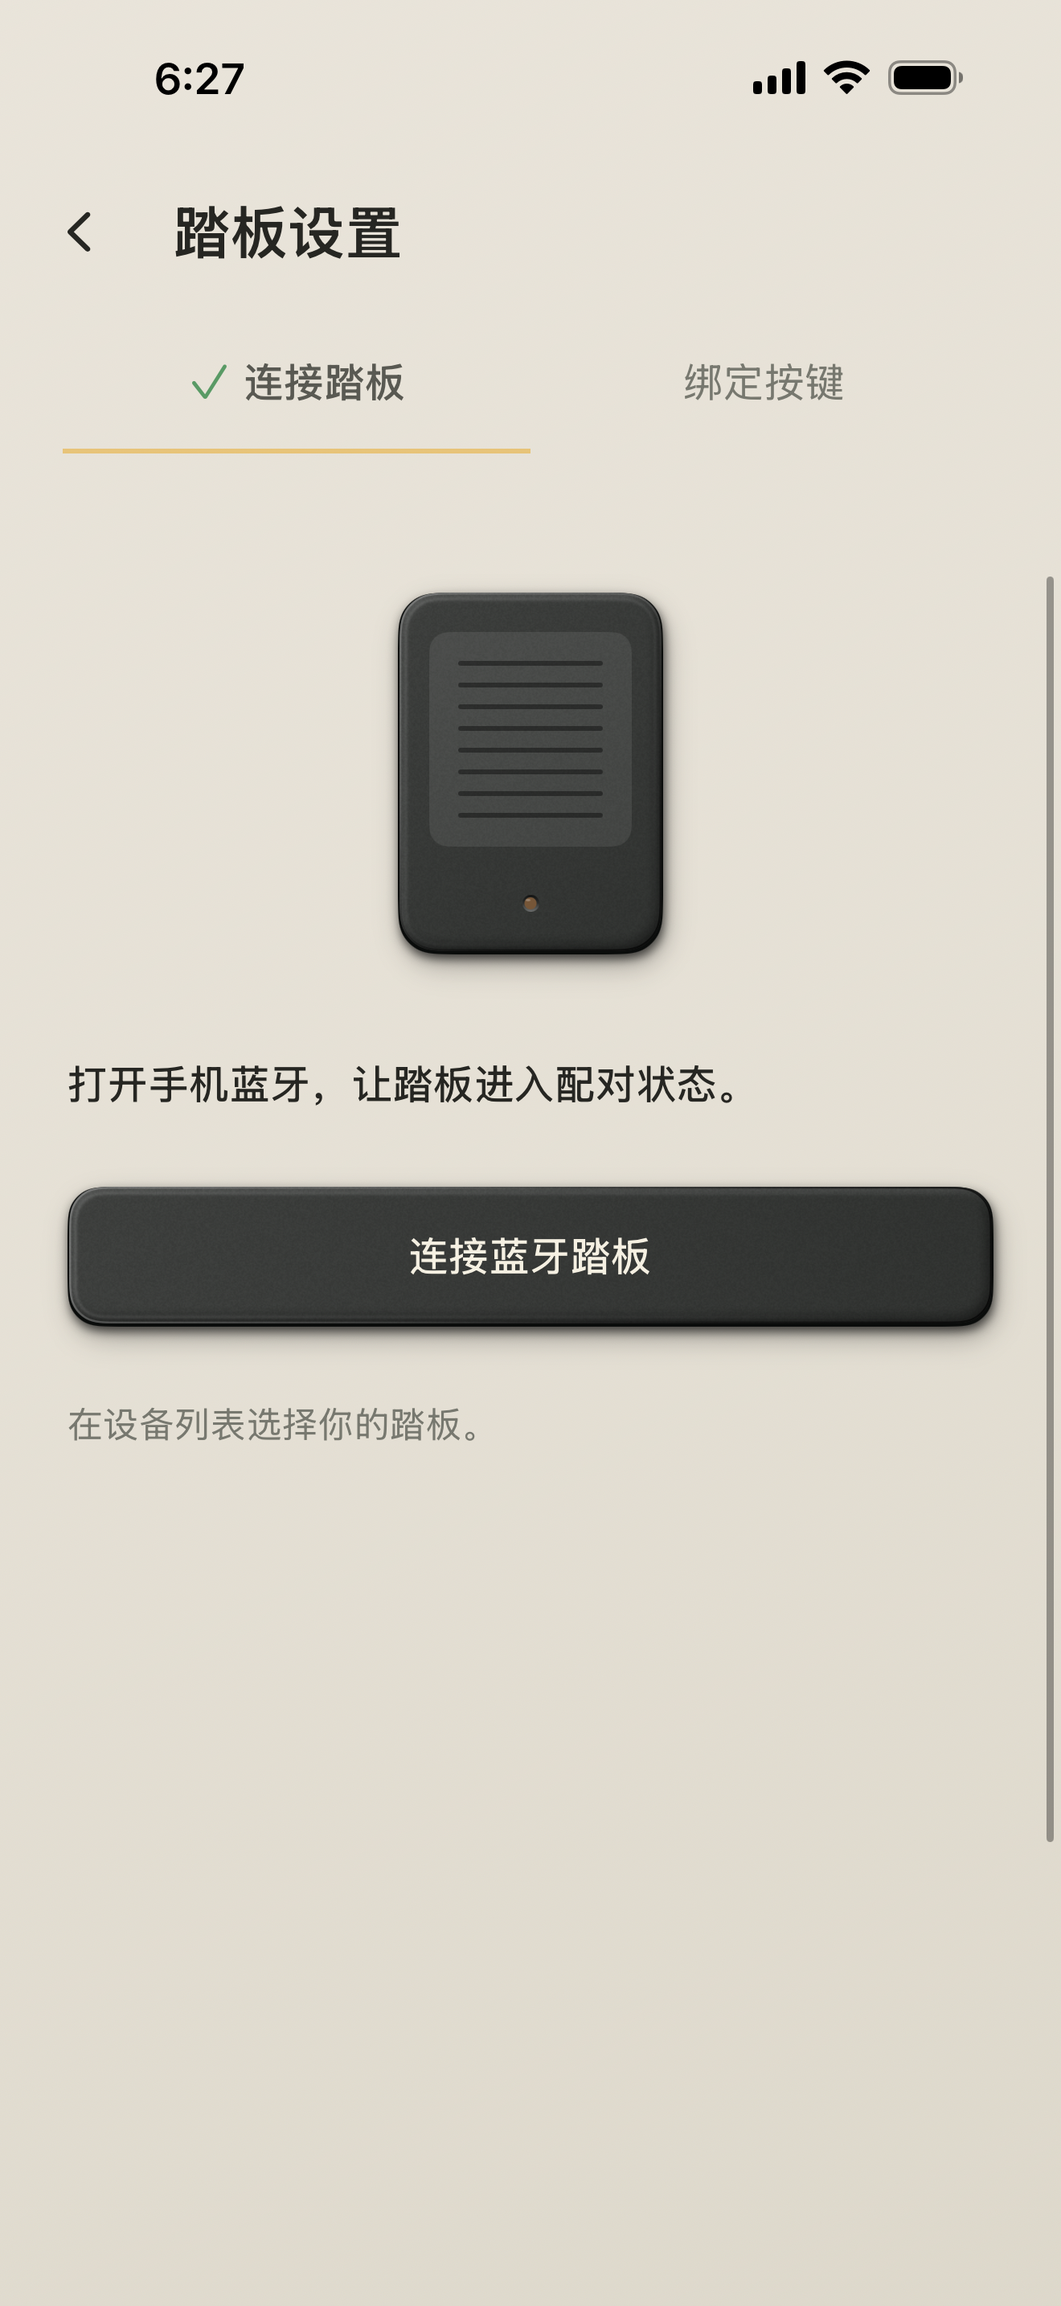
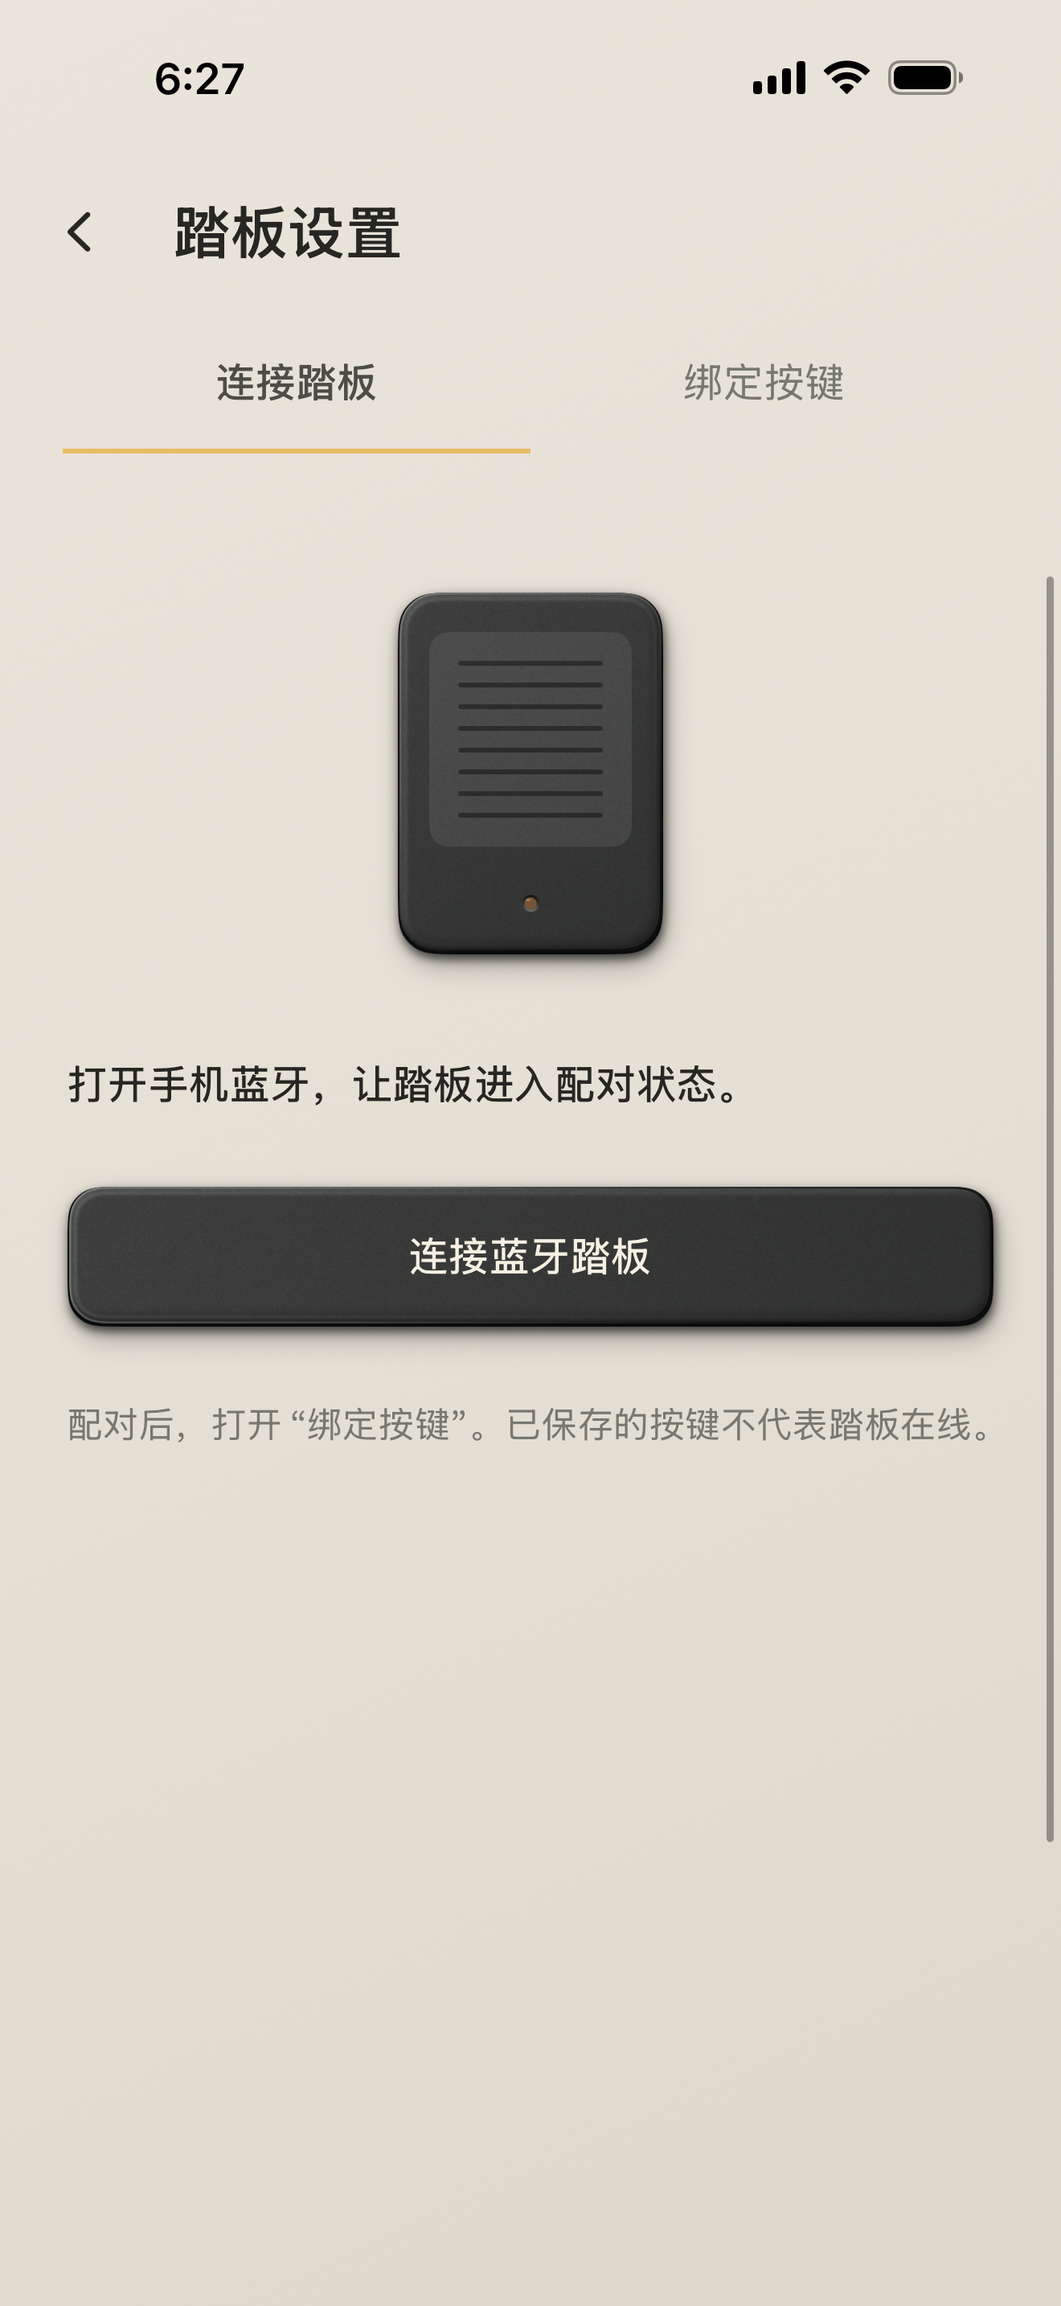
Remove false pedal connection claims and test input lifecycle edges

Changed region(s): [[0.497, 0.5896, 0.8697, 0.6206], [0.0621, 0.5896, 0.4348, 0.6206], [0.1864, 0.1552, 0.3727, 0.1862]]

diff --git a/TheMetronome/PedalControl.swift b/TheMetronome/PedalControl.swift
@@ -88,10 +88,8 @@ struct PedalMIDIParser {
 final class PedalControl: ObservableObject {
     @Published private(set) var bindings: [PedalAction: PedalBinding] = [:]
     @Published private(set) var learning: PedalAction?
-    @Published private(set) var midiSources = 0
-    @Published private(set) var keyboardConnected = false
-    @Published private(set) var physicalMIDISources = 0
-    var inputConnected: Bool { keyboardConnected || physicalMIDISources > 0 }
+    // GCKeyboard merges physical and virtual keyboards. MIDI endpoints can be
+    // virtual or wired. Neither is evidence that a Bluetooth pedal is connected.
     @Published var problem: String?
     var perform: ((PedalAction) -> Void)?
     private var gate = PedalGate()
@@ -100,6 +98,8 @@ final class PedalControl: ObservableObject {
     private var port = MIDIPortRef()
     private var sources = Set<MIDIEndpointRef>()
     private var parsers: [Int32: PedalMIDIParser] = [:]
+    private weak var attachedKeyboard: GCKeyboard?
+    private var activeMIDISourceIDs = Set<Int32>()
     private var editing = false
     private let defaults: UserDefaults
 
@@ -117,11 +117,15 @@ final class PedalControl: ObservableObject {
         gate.bindings = bindings
         for name in [NSNotification.Name.GCKeyboardDidConnect, .GCKeyboardDidDisconnect, UIApplication.didBecomeActiveNotification] {
             observers.append(NotificationCenter.default.addObserver(forName: name, object: nil, queue: .main) { [weak self] _ in
-                Task { @MainActor in self?.gate.clearHeld(); self?.attachKeyboard() }
+                Task { @MainActor in
+                    self?.resetInputSession()
+                    self?.attachKeyboard()
+                    self?.refreshSources()
+                }
             })
         }
-        observers.append(NotificationCenter.default.addObserver(forName: UIApplication.didEnterBackgroundNotification, object: nil, queue: .main) { [weak self] _ in
-            Task { @MainActor in self?.cancelLearning(); self?.gate.clearHeld() }
+        observers.append(NotificationCenter.default.addObserver(forName: UIApplication.willResignActiveNotification, object: nil, queue: .main) { [weak self] _ in
+            Task { @MainActor in self?.resetInputSession() }
         })
         for name in [UITextField.textDidBeginEditingNotification, UITextView.textDidBeginEditingNotification] {
             observers.append(NotificationCenter.default.addObserver(forName: name, object: nil, queue: .main) { [weak self] _ in Task { @MainActor in self?.editing = true } })
@@ -144,6 +148,12 @@ final class PedalControl: ObservableObject {
         for observer in observers { NotificationCenter.default.removeObserver(observer) }
         if port != 0 { MIDIPortDispose(port) }
         if client != 0 { MIDIClientDispose(client) }
+    }
+    /// Invalidate transient input on device/lifecycle changes, preserving saved mappings.
+    func resetInputSession() {
+        cancelLearning()
+        gate.clearHeld()
+        parsers.removeAll()
     }
     func learn(_ action: PedalAction) { gate.clearHeld(); gate.learning = action; learning = action }
     func cancelLearning() { gate.learning = nil; learning = nil }
@@ -170,8 +180,9 @@ final class PedalControl: ObservableObject {
         return assigned
     }
     private func attachKeyboard() {
-        keyboardConnected = GCKeyboard.coalesced != nil
-        GCKeyboard.coalesced?.keyboardInput?.keyChangedHandler = { [weak self] _, _, key, down in
+        attachedKeyboard?.keyboardInput?.keyChangedHandler = nil
+        attachedKeyboard = GCKeyboard.coalesced
+        attachedKeyboard?.keyboardInput?.keyChangedHandler = { [weak self] _, _, key, down in
             Task { @MainActor in
                 guard let self, UIApplication.shared.applicationState == .active, !self.editing else { return }
                 let code = key.rawValue
@@ -205,29 +216,39 @@ final class PedalControl: ObservableObject {
         if result != noErr { MIDIClientDispose(client); client = 0; problem = L10n.text("Could not connect MIDI. Try again."); return }
         refreshSources()
     }
-    private func receiveMIDI(_ bytes: [UInt8], source: Int32) {
+    func receiveMIDI(_ bytes: [UInt8], source: Int32) {
+        guard activeMIDISourceIDs.contains(source) else { return }
         var parser = parsers[source] ?? PedalMIDIParser()
         let events = parser.feed(bytes, source: source); parsers[source] = parser
         for (input, down) in events { receive(input, down: down) }
     }
+    func updateMIDISources(_ identifiers: Set<Int32>) {
+        guard identifiers != activeMIDISourceIDs else { return }
+        resetInputSession()
+        activeMIDISourceIDs = identifiers
+    }
     private func refreshSources() {
         guard port != 0 else { return }
-        let current = Set((0..<MIDIGetNumberOfSources()).map { MIDIGetSource($0) }.filter { $0 != 0 })
+        let current = Set((0..<MIDIGetNumberOfSources()).map { MIDIGetSource($0) }.filter { endpoint in
+            guard endpoint != 0 else { return false }
+            var offline: Int32 = 1
+            // Do not treat an unreadable property as a successful connection.
+            return MIDIObjectGetIntegerProperty(endpoint, kMIDIPropertyOffline, &offline) == noErr && offline == 0
+        })
         for source in sources.subtracting(current) { MIDIPortDisconnectSource(port, source) }
         var connected = sources.intersection(current)
         for source in current.subtracting(sources) {
             if MIDIPortConnectSource(port, source, UnsafeMutableRawPointer(bitPattern: UInt(source))) == noErr { connected.insert(source) }
             else { problem = L10n.text("Could not connect MIDI. Try again.") }
         }
-        if sources != connected { gate.clearHeld(); parsers.removeAll() }
-        sources = connected; midiSources = connected.count
-        physicalMIDISources = connected.filter { endpoint in
-            var entity = MIDIEntityRef(); var device = MIDIDeviceRef(); var offline: Int32 = 0
-            guard MIDIEndpointGetEntity(endpoint, &entity) == noErr, entity != 0,
-                  MIDIEntityGetDevice(entity, &device) == noErr, device != 0 else { return false }
-            MIDIObjectGetIntegerProperty(device, kMIDIPropertyOffline, &offline)
-            return offline == 0
-        }.count
+        if sources != connected { resetInputSession() }
+        sources = connected
+        updateMIDISources(Set(connected.compactMap { endpoint in
+            var identifier: Int32 = 0
+            guard MIDIObjectGetIntegerProperty(endpoint, kMIDIPropertyUniqueID, &identifier) == noErr,
+                  identifier != 0 else { return nil }
+            return identifier
+        }))
     }
 }
 

diff --git a/TheMetronomeTests/LiveModeTests.swift b/TheMetronomeTests/LiveModeTests.swift
@@ -3,6 +3,77 @@ import AVFoundation
 @testable import TheMetronome
 
 final class LiveModeTests: XCTestCase {
+    @MainActor func testDisconnectDuringRebindPreservesSavedKeyAndClearsHeldPress() {
+        let defaults = UserDefaults(suiteName: "PedalDisconnectTests")!
+        defaults.removePersistentDomain(forName: "PedalDisconnectTests")
+        defer { defaults.removePersistentDomain(forName: "PedalDisconnectTests") }
+        let pedal = PedalControl(defaults: defaults)
+        let key = PedalBinding(kind: .keyboard, code: 40, label: "RETURN")
+        pedal.learn(.toggle)
+        XCTAssertTrue(pedal.receive(key, down: true, at: 0))
+        pedal.learn(.toggle)
+        pedal.resetInputSession()
+        XCTAssertNil(pedal.learning)
+        XCTAssertEqual(pedal.bindings[.toggle], key)
+        var actions: [PedalAction] = []
+        pedal.perform = { actions.append($0) }
+        // Reconnect without an old key-up must not leave the pedal stuck.
+        XCTAssertTrue(pedal.receive(key, down: true, at: 1))
+        XCTAssertEqual(actions, [.toggle])
+        pedal.resetInputSession()
+        XCTAssertEqual(pedal.bindings[.toggle], key)
+    }
+    @MainActor func testMIDIDisconnectRejectsQueuedEventsAndReconnectNeedsFreshMessage() {
+        let defaults = UserDefaults(suiteName: "PedalMIDILifecycleTests")!
+        defaults.removePersistentDomain(forName: "PedalMIDILifecycleTests")
+        defer { defaults.removePersistentDomain(forName: "PedalMIDILifecycleTests") }
+        let pedal = PedalControl(defaults: defaults)
+        pedal.updateMIDISources([12])
+        pedal.learn(.toggle)
+        pedal.receiveMIDI([0x90, 60, 100], source: 12)
+        XCTAssertEqual(pedal.bindings[.toggle]?.source, 12)
+        var actions: [PedalAction] = []
+        pedal.perform = { actions.append($0) }
+        pedal.learn(.toggle)
+        pedal.updateMIDISources([])
+        XCTAssertNil(pedal.learning)
+        pedal.receiveMIDI([0x90, 60, 100], source: 12)
+        XCTAssertTrue(actions.isEmpty) // queued input after disconnection
+        XCTAssertNotNil(pedal.bindings[.toggle])
+        pedal.updateMIDISources([12])
+        pedal.receiveMIDI([0x90, 60], source: 12) // partial packet
+        pedal.updateMIDISources([])
+        pedal.updateMIDISources([12])
+        pedal.receiveMIDI([100], source: 12)
+        XCTAssertTrue(actions.isEmpty) // no running status carried across sessions
+        pedal.receiveMIDI([0x90, 60, 100], source: 99)
+        XCTAssertTrue(actions.isEmpty) // unknown source
+        pedal.receiveMIDI([0x90, 60, 100], source: 12)
+        XCTAssertEqual(actions, [.toggle])
+    }
+    @MainActor func testSameMIDITopologyDoesNotCancelLearningButSourceReplacementDoes() {
+        let defaults = UserDefaults(suiteName: "PedalTopologyTests")!
+        defer { defaults.removePersistentDomain(forName: "PedalTopologyTests") }
+        let pedal = PedalControl(defaults: defaults)
+        pedal.updateMIDISources([12]); pedal.learn(.tap)
+        pedal.updateMIDISources([12]); XCTAssertEqual(pedal.learning, .tap)
+        pedal.updateMIDISources([13]); XCTAssertNil(pedal.learning)
+        XCTAssertTrue(pedal.bindings.isEmpty)
+    }
+    @MainActor func testLeavingForegroundCancelsLearningWithoutDeletingAssignment() async throws {
+        let defaults = UserDefaults(suiteName: "PedalForegroundTests")!
+        defaults.removePersistentDomain(forName: "PedalForegroundTests")
+        defer { defaults.removePersistentDomain(forName: "PedalForegroundTests") }
+        let pedal = PedalControl(defaults: defaults)
+        let key = PedalBinding(kind: .keyboard, code: 44, label: "SPACE")
+        pedal.learn(.toggle); pedal.receive(key, down: true, at: 0)
+        pedal.learn(.next)
+        NotificationCenter.default.post(name: UIApplication.willResignActiveNotification, object: nil)
+        try await Task.sleep(for: .milliseconds(50))
+        XCTAssertNil(pedal.learning)
+        XCTAssertEqual(pedal.bindings[.toggle], key)
+        XCTAssertNil(pedal.bindings[.next])
+    }
     func testLearnConsumesPressRebindAndHeldKeyDoesNotRepeat() {
         var gate = PedalGate()
         let key = PedalBinding(kind: .keyboard, code: 40, label: "RETURN")

diff --git a/TheMetronome/PedalSettingsView.swift b/TheMetronome/PedalSettingsView.swift
@@ -11,7 +11,6 @@ struct PedalSettingsView: View {
     @Environment(\.accessibilityReduceMotion) private var reduceMotion
     @ScaledMetric(relativeTo: .body) private var keyWidth: CGFloat = 138
     private let groups: [[PedalAction]] = [[.toggle, .tap], [.previous, .next], [.slower, .faster]]
-    private let green = Color(red: 0.28, green: 0.57, blue: 0.34)
     var body: some View {
         VStack(spacing: 0) {
             HStack(spacing: 16) {
@@ -57,10 +56,7 @@ struct PedalSettingsView: View {
             }
         }.foregroundStyle(p.ink).background { InstrumentBody(p: p).ignoresSafeArea() }
             .preferredColorScheme(model.dark ? .dark : .light).accessibilityAddTraits(.isModal)
-            .onAppear { bindingTab = !pedal.bindings.isEmpty || pedal.inputConnected }
-            .onChange(of: pedal.inputConnected) { _, connected in
-                if connected { midiPicker = false; bindingTab = true }
-            }
+            .onAppear { bindingTab = !pedal.bindings.isEmpty }
             .onDisappear { pedal.cancelLearning() }
             .sheet(isPresented: $midiPicker) {
                 NavigationStack {
@@ -77,7 +73,6 @@ struct PedalSettingsView: View {
         Button(action: action) {
             VStack(spacing: 12) {
                 HStack(spacing: 5) {
-                    if id == "pedal-tab-connect" && pedal.inputConnected { Image(systemName: "checkmark").foregroundStyle(green) }
                     Text(title).font(.body.weight(selected ? .semibold : .regular)).foregroundStyle(selected ? p.ink : p.muted)
                 }.frame(minHeight: 32)
                 Rectangle().fill(selected ? InstrumentPalette.amber : .clear).frame(height: 2)
@@ -92,7 +87,7 @@ struct PedalSettingsView: View {
             Button { pedal.problem = nil; pedal.enableMIDI(); midiPicker = true } label: {
                 Text("Connect Bluetooth pedal").font(.body.weight(.medium)).frame(maxWidth: .infinity, minHeight: 58)
             }.buttonStyle(HardwareButtonStyle(p: p, charcoal: true, radius: 14)).accessibilityIdentifier("pedal-midi")
-            Text("Choose your pedal from the device list.").font(.subheadline).foregroundStyle(p.muted).frame(maxWidth: .infinity, alignment: .leading)
+            Text("After pairing, open Assign controls. Saved keys do not indicate a live connection.").font(.subheadline).foregroundStyle(p.muted).frame(maxWidth: .infinity, alignment: .leading)
         }
     }
     private var bindingList: some View {

diff --git a/TheMetronomeUITests/LiveModeUITests.swift b/TheMetronomeUITests/LiveModeUITests.swift
@@ -1,6 +1,29 @@
 import XCTest
 
 final class LiveModeUITests: XCTestCase {
+    func testUnpairedSetupDoesNotAutoAdvanceAndBackgroundCancelsLearning() {
+        continueAfterFailure = false
+        let app = XCUIApplication()
+        app.launchArguments = ["-AppleLanguages", "(en)", "--light", "--panel=pedal", "--pedal-ui-test"]
+        app.launch()
+        // The simulator exposes a GCKeyboard even without a Bluetooth pedal.
+        // This used to incorrectly mark the tab connected and navigate away.
+        XCTAssertTrue(app.buttons["pedal-midi"].waitForExistence(timeout: 8))
+        XCTAssertFalse(app.buttons["pedal-toggle"].exists)
+        XCTAssertFalse(app.images["checkmark"].exists)
+        capture(app, "Unpaired setup")
+        XCUIDevice.shared.press(.home); app.activate()
+        XCTAssertTrue(app.buttons["pedal-midi"].waitForExistence(timeout: 5))
+        app.buttons["pedal-tab-bind"].tap()
+        app.buttons["pedal-toggle"].tap()
+        XCTAssertEqual(app.buttons["pedal-toggle"].value as? String, "Learning")
+        XCUIDevice.shared.press(.home); app.activate()
+        XCTAssertTrue(app.buttons["pedal-toggle"].waitForExistence(timeout: 5))
+        XCTAssertEqual(app.buttons["pedal-toggle"].value as? String, "Learn")
+        app.buttons["pedal-tab-connect"].tap()
+        XCTAssertTrue(app.buttons["pedal-midi"].exists)
+        XCTAssertFalse(app.images["checkmark"].exists)
+    }
     func testSixActionsLearningCancellationAndPlaybackRemainAccessible() {
         continueAfterFailure = false
         let app = XCUIApplication()
@@ -66,6 +89,8 @@ final class LiveModeUITests: XCTestCase {
             capture(app, "Preparation — \(language)")
             app.swipeDown(); app.buttons["pedal-preparation"].tap()
             app.buttons["pedal-tab-connect"].tap()
+            XCTAssertFalse(app.images["checkmark"].exists)
+            XCTAssertTrue(app.buttons["pedal-midi"].exists)
             capture(app, "Connection — \(language)")
             app.terminate()
         }

diff --git a/Design/LiveMode/README.md b/Design/LiveMode/README.md
@@ -59,3 +59,13 @@ Two tabs: connect and assign. Assignment keys directly reuse HardwareKeySurface:
 Connection status comes from an attached keyboard or online physical MIDI source, not merely a saved binding. Virtual MIDI endpoints do not mark the connection complete. A detected connection advances to assignment. The native picker handles Bluetooth MIDI; keyboard/page-turning pedals pair through iPhone Settings > Bluetooth. Background compatibility limitations above still apply.
 
 Verification: 7 LiveMode logic tests and 2 UI journey tests passed on iPhone 17 Pro Max simulator, iOS 26.3. Tests cover repeated learning/cancel, preserved reassignment, tabs, preparation collapse, stopped navigation and playback continuing after settings. Chinese, English and German screenshots were inspected. Native localization validation passes for 204 strings across nine languages. Final signed Debug 1.0.2 (3) installed successfully on the connected iPhone 14 Pro at 21:19. No new physical pedal, lock-screen or call tests were run. Real app screenshots in implemented/ use an isolated DEBUG assignment fixture; they are not proof of physical pedal compatibility.
+
+### Connection false positive correction · 1.0.2 (4)
+
+The previous connection check was wrong: GCKeyboard.coalesced is a combined keyboard input object, not Bluetooth pedal identification. A physical/virtual keyboard can satisfy it, and an arbitrary online MIDI endpoint does not establish pedal identity or Bluetooth transport either. The connection tab no longer displays a connection check or auto-advances from these signals. Saved bindings open the assignment page for convenience but never mark a device connected. Green key LEDs mean saved assignments only. Actual HID pedal connection status remains unknown; this release does not claim to detect it.
+
+Transient learning, held keys and MIDI parser state reset on keyboard topology changes and foreground transitions. Saved mappings survive. Offline or unreadable MIDI endpoints are excluded from routing. Messages from sources no longer in the active set are ignored. Changing MIDI source IDs cancels learning; an unchanged topology does not.
+
+Verification: 11 logic tests + 3 UI tests passed on iPhone 17 Pro Max simulator (iOS 26.3). New cases: no saved mapping with a system keyboard available must remain on connection instructions; saved keys do not mark connection; foreground round-trip cancels learning; disconnection during reassignment preserves the old key; reconnect without key-up clears held state; disconnected/unknown MIDI sources cannot trigger actions; partial MIDI packets cannot span sessions; unchanged topology preserves learning while source replacement cancels it. Existing repeated-choice, playback, localization and interruption-model tests also passed. Screenshots inspected in Chinese and English; native strings validate across nine languages.
+
+Debug build 1.0.2 (4) installed successfully on iPhone 14 Pro. Physical UI verification is currently blocked by the phone lock. No Bluetooth power-toggle, actual pedal reconnect, or live call/alarm claims are established by simulator tests. The previous build 3 was uploaded but was not submitted to external beta review.
